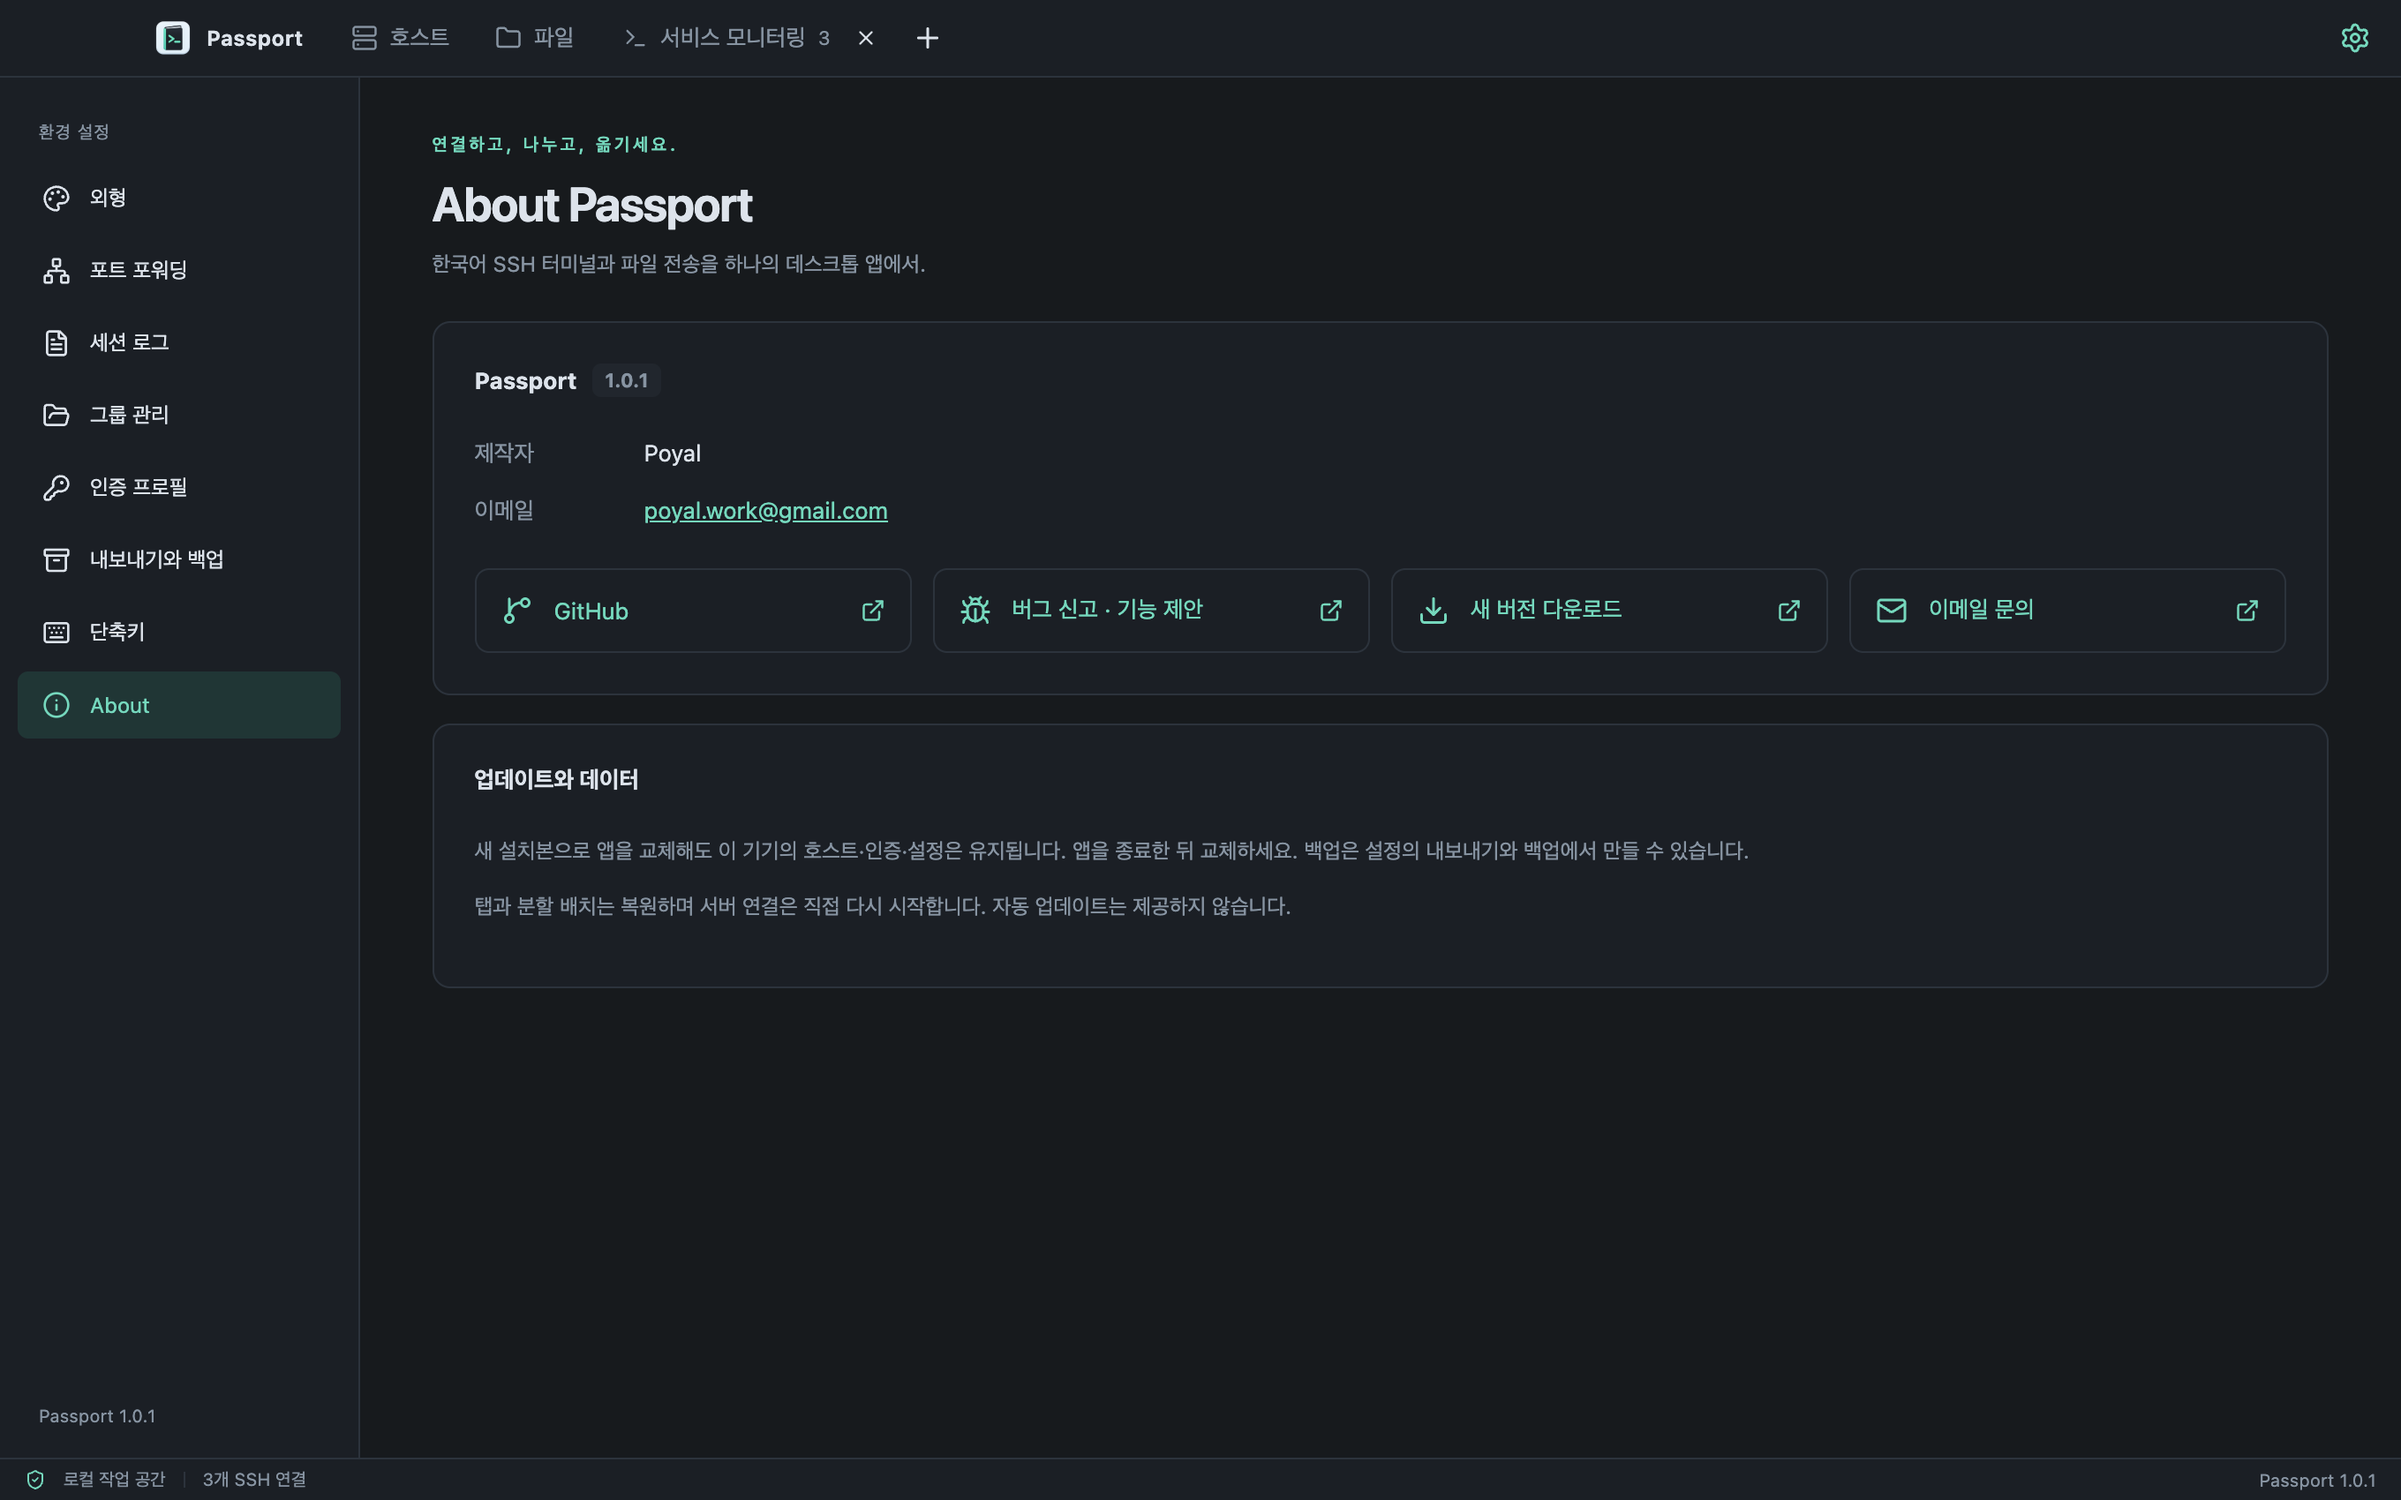
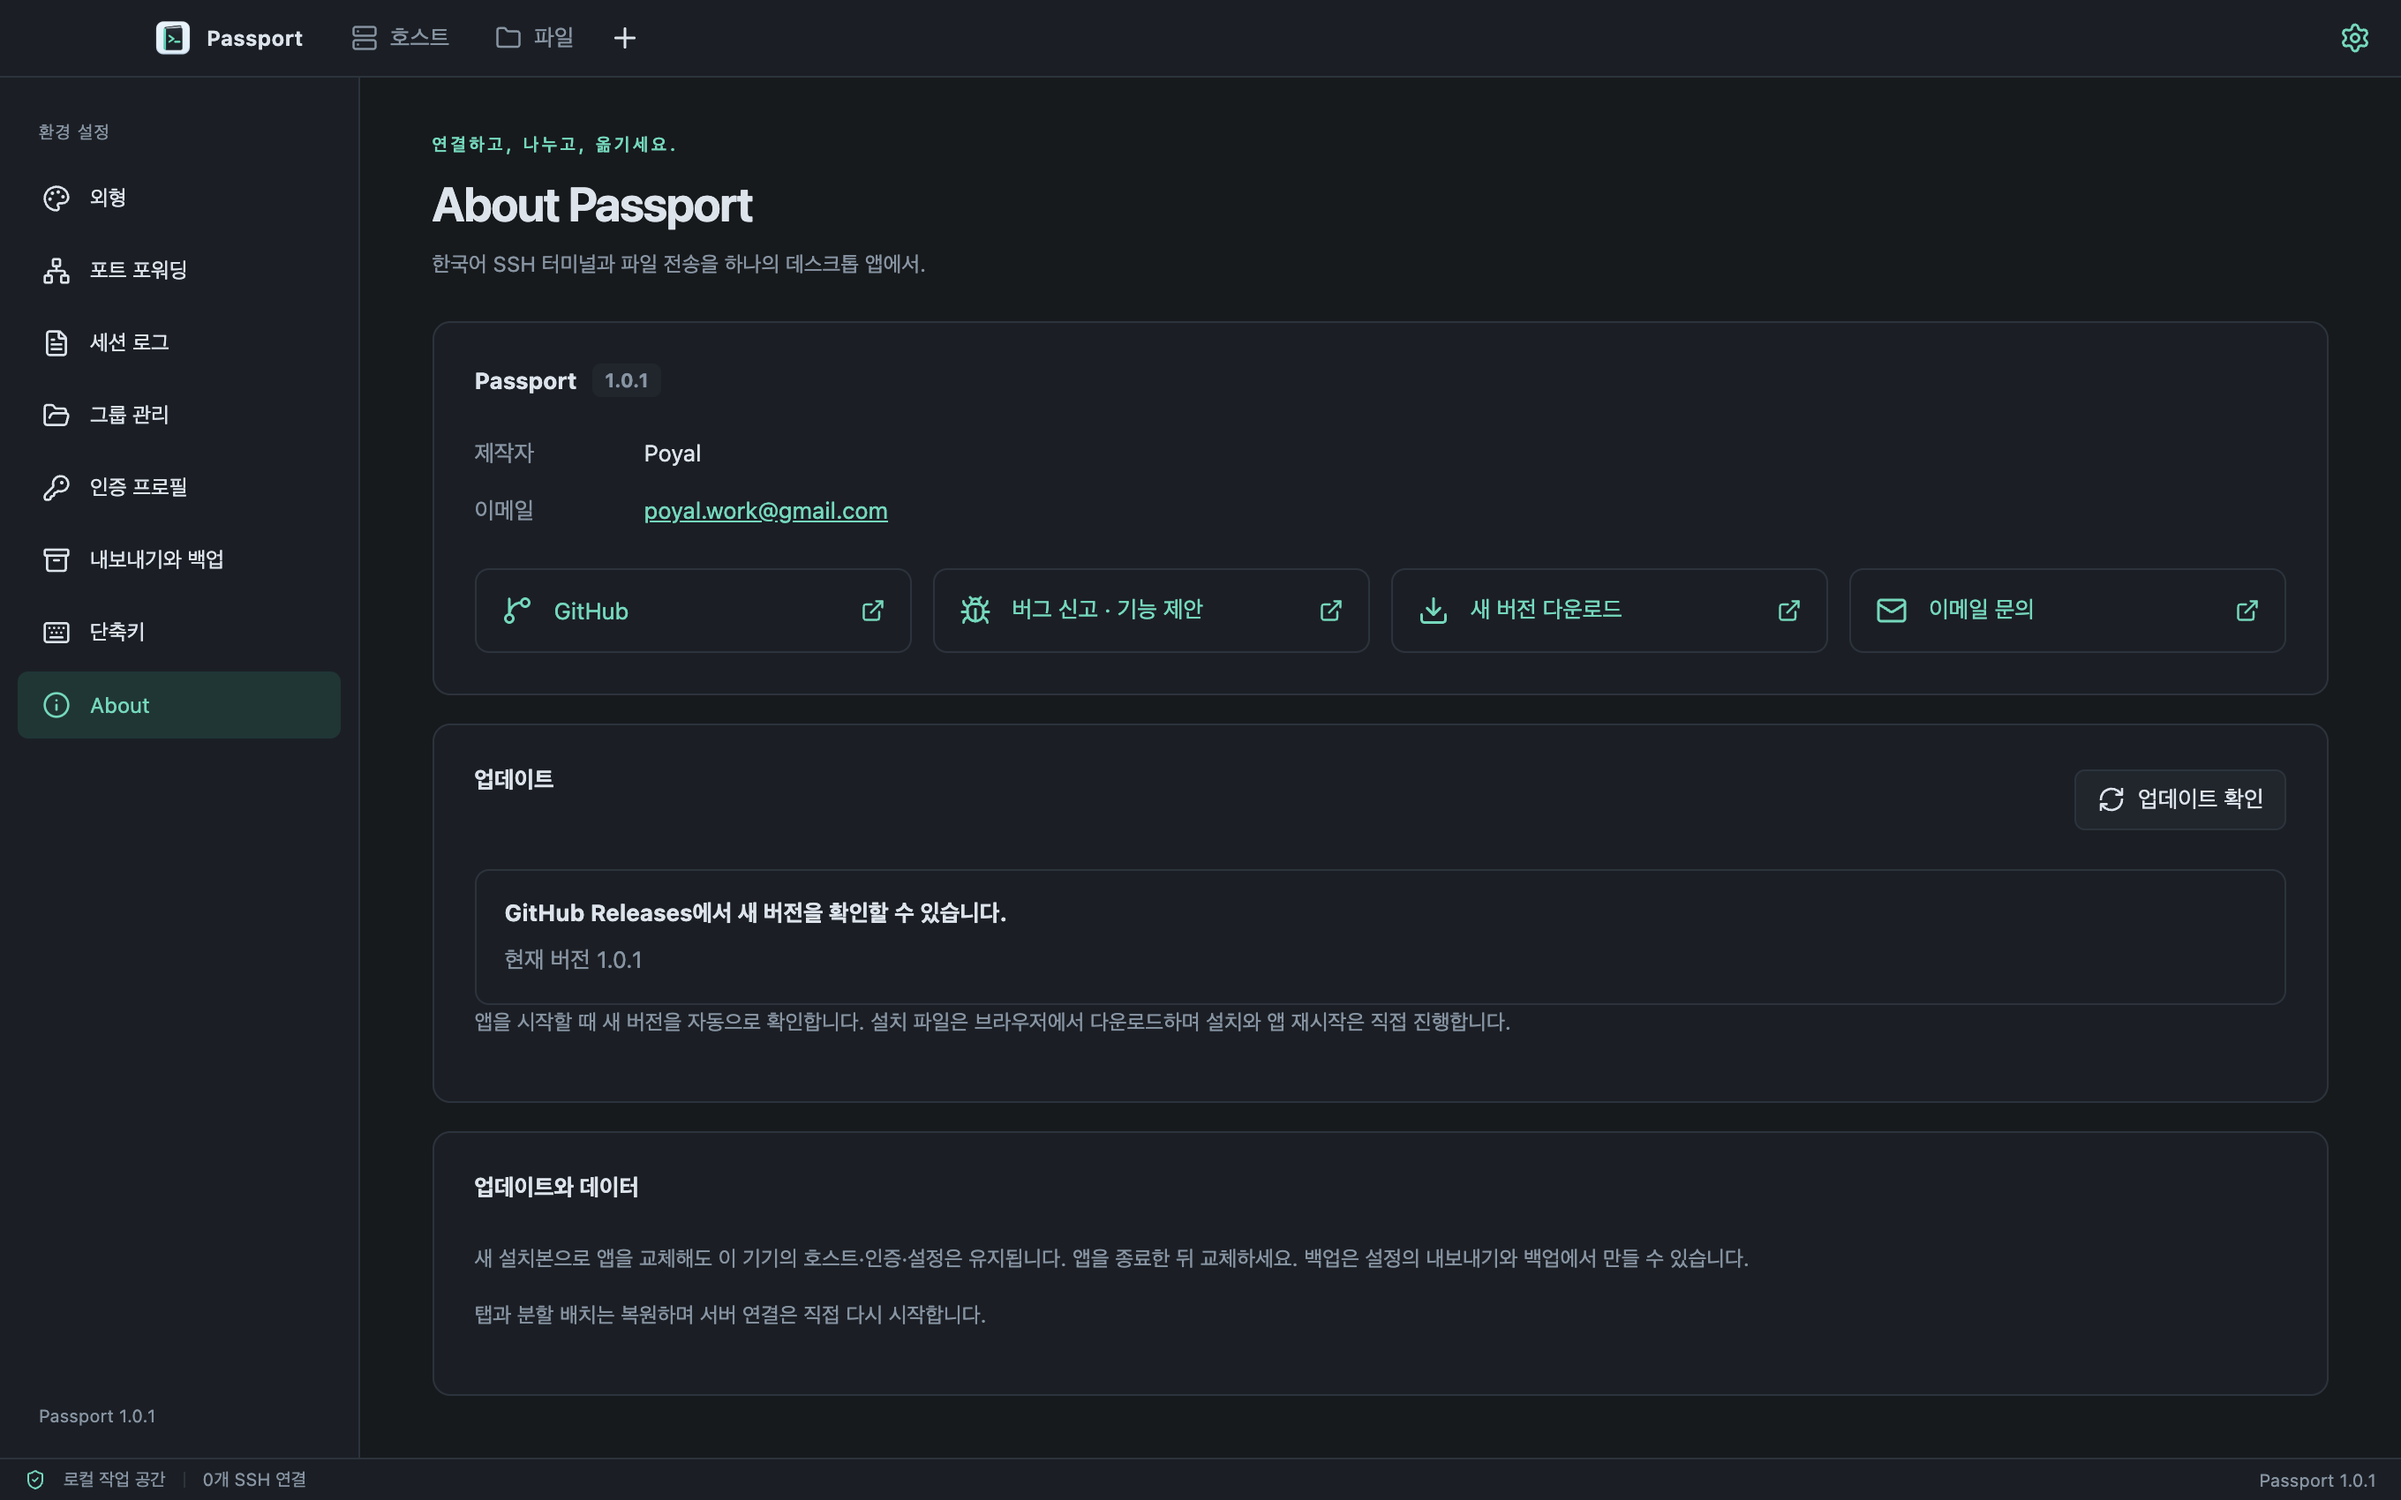
Document published 1.0.1 and verified update checks

diff --git a/docs/verification.md b/docs/verification.md
@@ -13,6 +13,8 @@
 
[1 lines of base64/hex data omitted]
 
[1 lines of base64/hex data omitted]
+
 ## 1.0.1 내보내기·가져오기·로그·검색·설정 — 2026-09-30
 
 내보내기 암호가 10자 미만이면 필요한 길이와 현재 글자 수를 표시한다. 실제 인증 프로필이 포함된 파일을 내보내고 올바른 암호로 복호화하는 GUI 검증을 통과했다. 가져오기는 파일 선택 후 암호화된 파일에만 암호창을 열며 잘못된 암호 재입력·미리보기·취소 토큰 무효화와 일반 파일의 암호창 생략을 확인했다. 선택한 파일의 암호문은 해당 창에서만 사용할 수 있는 5분 토큰으로 관리한다.
@@ -29,7 +31,7 @@
 - **패키징된 1.0.1 앱의 GUI 7개 통과**: 새 설정·데이터·로그·검색·About, 구형 SSH/SFTP, 모든 테마 파일 색상. 로컬 PTY 실행·렌더러 Node 접근 차단·종료 코드 0도 통과했다.
 - `codesign --verify --deep --strict`와 `hdiutil verify` 통과. 패키지 내부 main·preload·renderer의 SHA-256이 최종 빌드와 일치한다. 실제 버전은 1.0.1이며 Apple 공증은 포함하지 않는다.
 
[2 lines of base64/hex data omitted]
 
 ## 1.0.0 설정 재구성·자동 OS 아이콘·파일 색상 — 2026-09-30
 

diff --git a/README.md b/README.md
@@ -22,13 +22,13 @@
 
 ## 설치
 
-**현재 배포 버전은 1.0.0입니다.** Apple Silicon Mac용 설치 파일을 [GitHub Releases](https://github.com/poyal/passport/releases/tag/v1.0.0)에서 받으세요.
+**현재 배포 버전은 1.0.1입니다.** Apple Silicon Mac용 설치 파일을 [GitHub Releases](https://github.com/poyal/passport/releases/tag/v1.0.1)에서 받으세요.
 
-`main`의 수정본은 **1.0.1**입니다. 아래 화면과 사용 안내는 수정본을 기준으로 하며, 변경 내용은 [1.0.1 안내](docs/releases/v1.0.1.md)에 있습니다. 공개 다운로드는 위에 표시한 배포 버전을 확인하세요.
+아래 화면과 사용 안내는 **1.0.1**을 기준으로 합니다. 변경 내용은 [1.0.1 안내](docs/releases/v1.0.1.md)에 있습니다.
 
 | 내 컴퓨터                     | 설치 파일                                                                                                               | 제공 상태 |
 | ----------------------------- | ----------------------------------------------------------------------------------------------------------------------- | --------- |
-| Mac · Apple Silicon(M 시리즈) | [Passport-1.0.0-mac-arm64.dmg](https://github.com/poyal/passport/releases/download/v1.0.0/Passport-1.0.0-mac-arm64.dmg) | 배포 중   |
+| Mac · Apple Silicon(M 시리즈) | [Passport-1.0.1-mac-arm64.dmg](https://github.com/poyal/passport/releases/download/v1.0.1/Passport-1.0.1-mac-arm64.dmg) | 배포 중   |
 | Windows · Intel / AMD(x64)    | `.exe` 설치 프로그램                                                                                                    | 준비 중   |
 | Windows · ARM64               | ARM64용 `.exe` 설치 프로그램                                                                                            | 준비 중   |
 
@@ -65,14 +65,14 @@ macOS 14 이상과 Apple Silicon(M 시리즈)을 대상으로 합니다. Rosetta
 
 ### 다운로드 파일 확인하기
 
-DMG와 [SHA256SUMS.txt](https://github.com/poyal/passport/releases/download/v1.0.0/SHA256SUMS.txt)를 같은 폴더에 저장한 뒤 터미널에서 확인할 수 있습니다. 다운로드 폴더에 저장했다면 다음을 실행하세요.
+DMG와 [SHA256SUMS.txt](https://github.com/poyal/passport/releases/download/v1.0.1/SHA256SUMS.txt)를 같은 폴더에 저장한 뒤 터미널에서 확인할 수 있습니다. 다운로드 폴더에 저장했다면 다음을 실행하세요.
 
 ```sh
 cd ~/Downloads
 shasum -a 256 -c SHA256SUMS.txt
 ```
 
-`Passport-1.0.0-mac-arm64.dmg: OK`가 표시되면 게시된 파일과 일치합니다.
+`Passport-1.0.1-mac-arm64.dmg: OK`가 표시되면 게시된 파일과 일치합니다.
 
 Windows x64·ARM64 설치 파일은 준비 중이며 이번 릴리스에 포함하지 않습니다.
 

diff --git a/docs/distribution.md b/docs/distribution.md
@@ -6,7 +6,7 @@
 
 ## 현재 상태
 
-2026-09-30 기준 `main`의 수정본은 1.0.1이다. Apple Silicon Mac용 DMG를 생성하고 실제 패키지 실행을 확인했다. 공개 배포는 [GitHub Release v1.0.0](https://github.com/poyal/passport/releases/tag/v1.0.0)의 Mac DMG와 SHA256SUMS이며 1.0.1 설치본은 아직 게시하지 않았다. Windows x64·ARM64는 빌드 스크립트와 수동 CI를 준비했으나 실제 설치·실행 확인이 남아 있다.
+2026-09-30 기준 공개 배포는 **1.0.1**이다. Apple Silicon Mac용 DMG를 생성하고 실제 패키지 실행을 확인했다. [GitHub Release v1.0.1](https://github.com/poyal/passport/releases/tag/v1.0.1)에 Mac DMG와 SHA256SUMS를 게시했다. Windows x64·ARM64는 빌드 스크립트와 수동 CI를 준비했으나 실제 설치·실행 확인이 남아 있다.
 
 Mac 설치본은 ad-hoc 서명이며 Developer ID 서명·Apple 공증을 포함하지 않는다. `codesign` 무결성 검사 통과는 Apple 공증이나 Gatekeeper의 실행 허용을 뜻하지 않는다. 현재 결과와 DMG 해시는 [검증 기록](verification.md)에 보관한다.
 
@@ -65,7 +65,7 @@ Docker 매트릭스와 장시간 부하, 별도 Python 환경을 요구하는 FT
 
 [Publish Mac release](../.github/workflows/release.yml)은 `v*.*.*` 태그 push에서 실행한다. 태그와 `package.json`의 버전이 같아야 하고 `docs/releases/v<버전>.md`가 있어야 한다. ARM64 Mac runner에서 기본 검사·GUI·DMG·패키지 실행과 구형 SSH/파일 색상을 확인하고 모든 단계가 통과하면 해당 버전의 GitHub Release에 DMG와 `SHA256SUMS.txt`를 게시한다. 게시 권한은 해당 작업의 저장소 contents로 한정한다. [GitHub ARM64 runner 공식 안내](https://docs.github.com/en/actions/reference/runners/github-hosted-runners).
 
-2026-09-30 실행이 성공했고 실제 다운로드와 GitHub 자산 digest·SHA256SUMS 일치를 확인했다. [게시 결과](benchmarks/github-release-v1.0.0.json). 로컬 DMG와 runner에서 만든 DMG는 별도 빌드이므로 각각의 해시를 사용한다. 배포 소스는 `v1.0.0` 태그를 기준으로 하며 이후 문서 갱신은 `main`에 반영한다.
+2026-09-30의 [1.0.1 배포 작업](https://github.com/poyal/passport/actions/runs/36685960915)이 성공했고 실제 다운로드와 GitHub 자산 digest·SHA256SUMS 일치를 확인했다. [게시 결과](benchmarks/github-release-v1.0.1.json). 로컬 DMG와 runner에서 만든 DMG는 별도 빌드이므로 각각의 해시를 사용한다. 배포 소스는 `v1.0.1` 태그를 기준으로 하며 이후 문서 갱신은 `main`에 반영한다.
 
 ## 배포 갱신 순서
 
